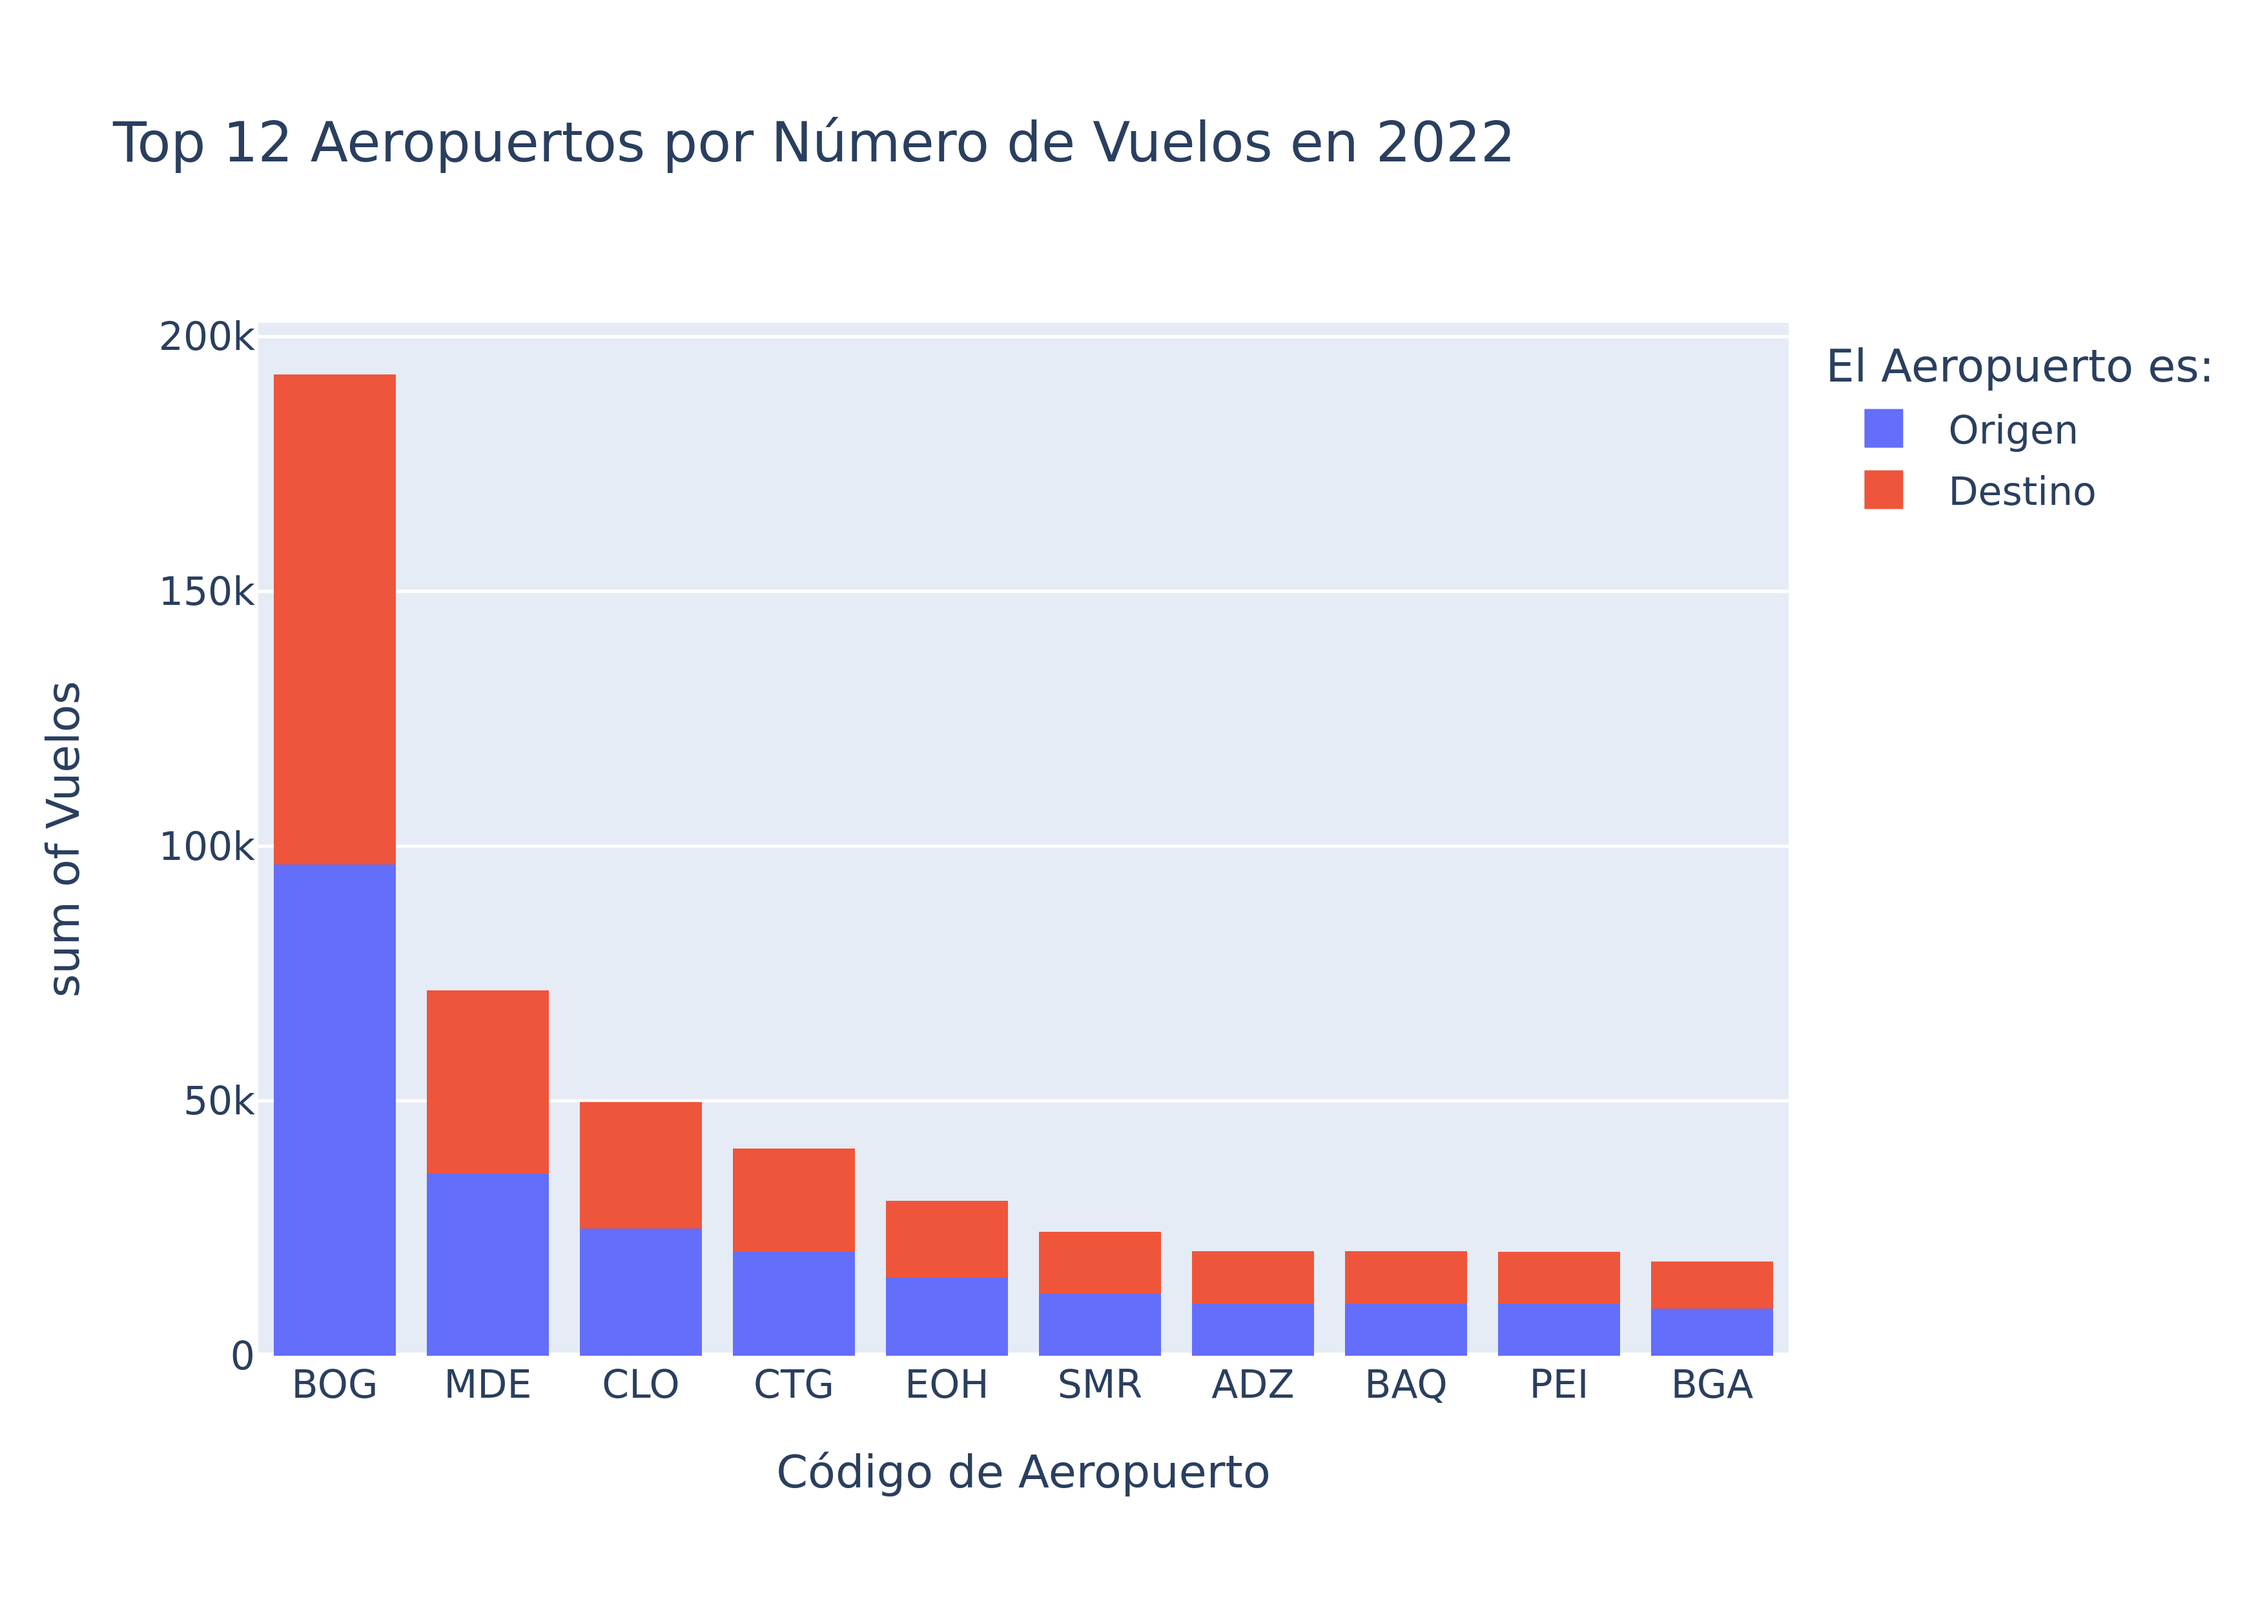
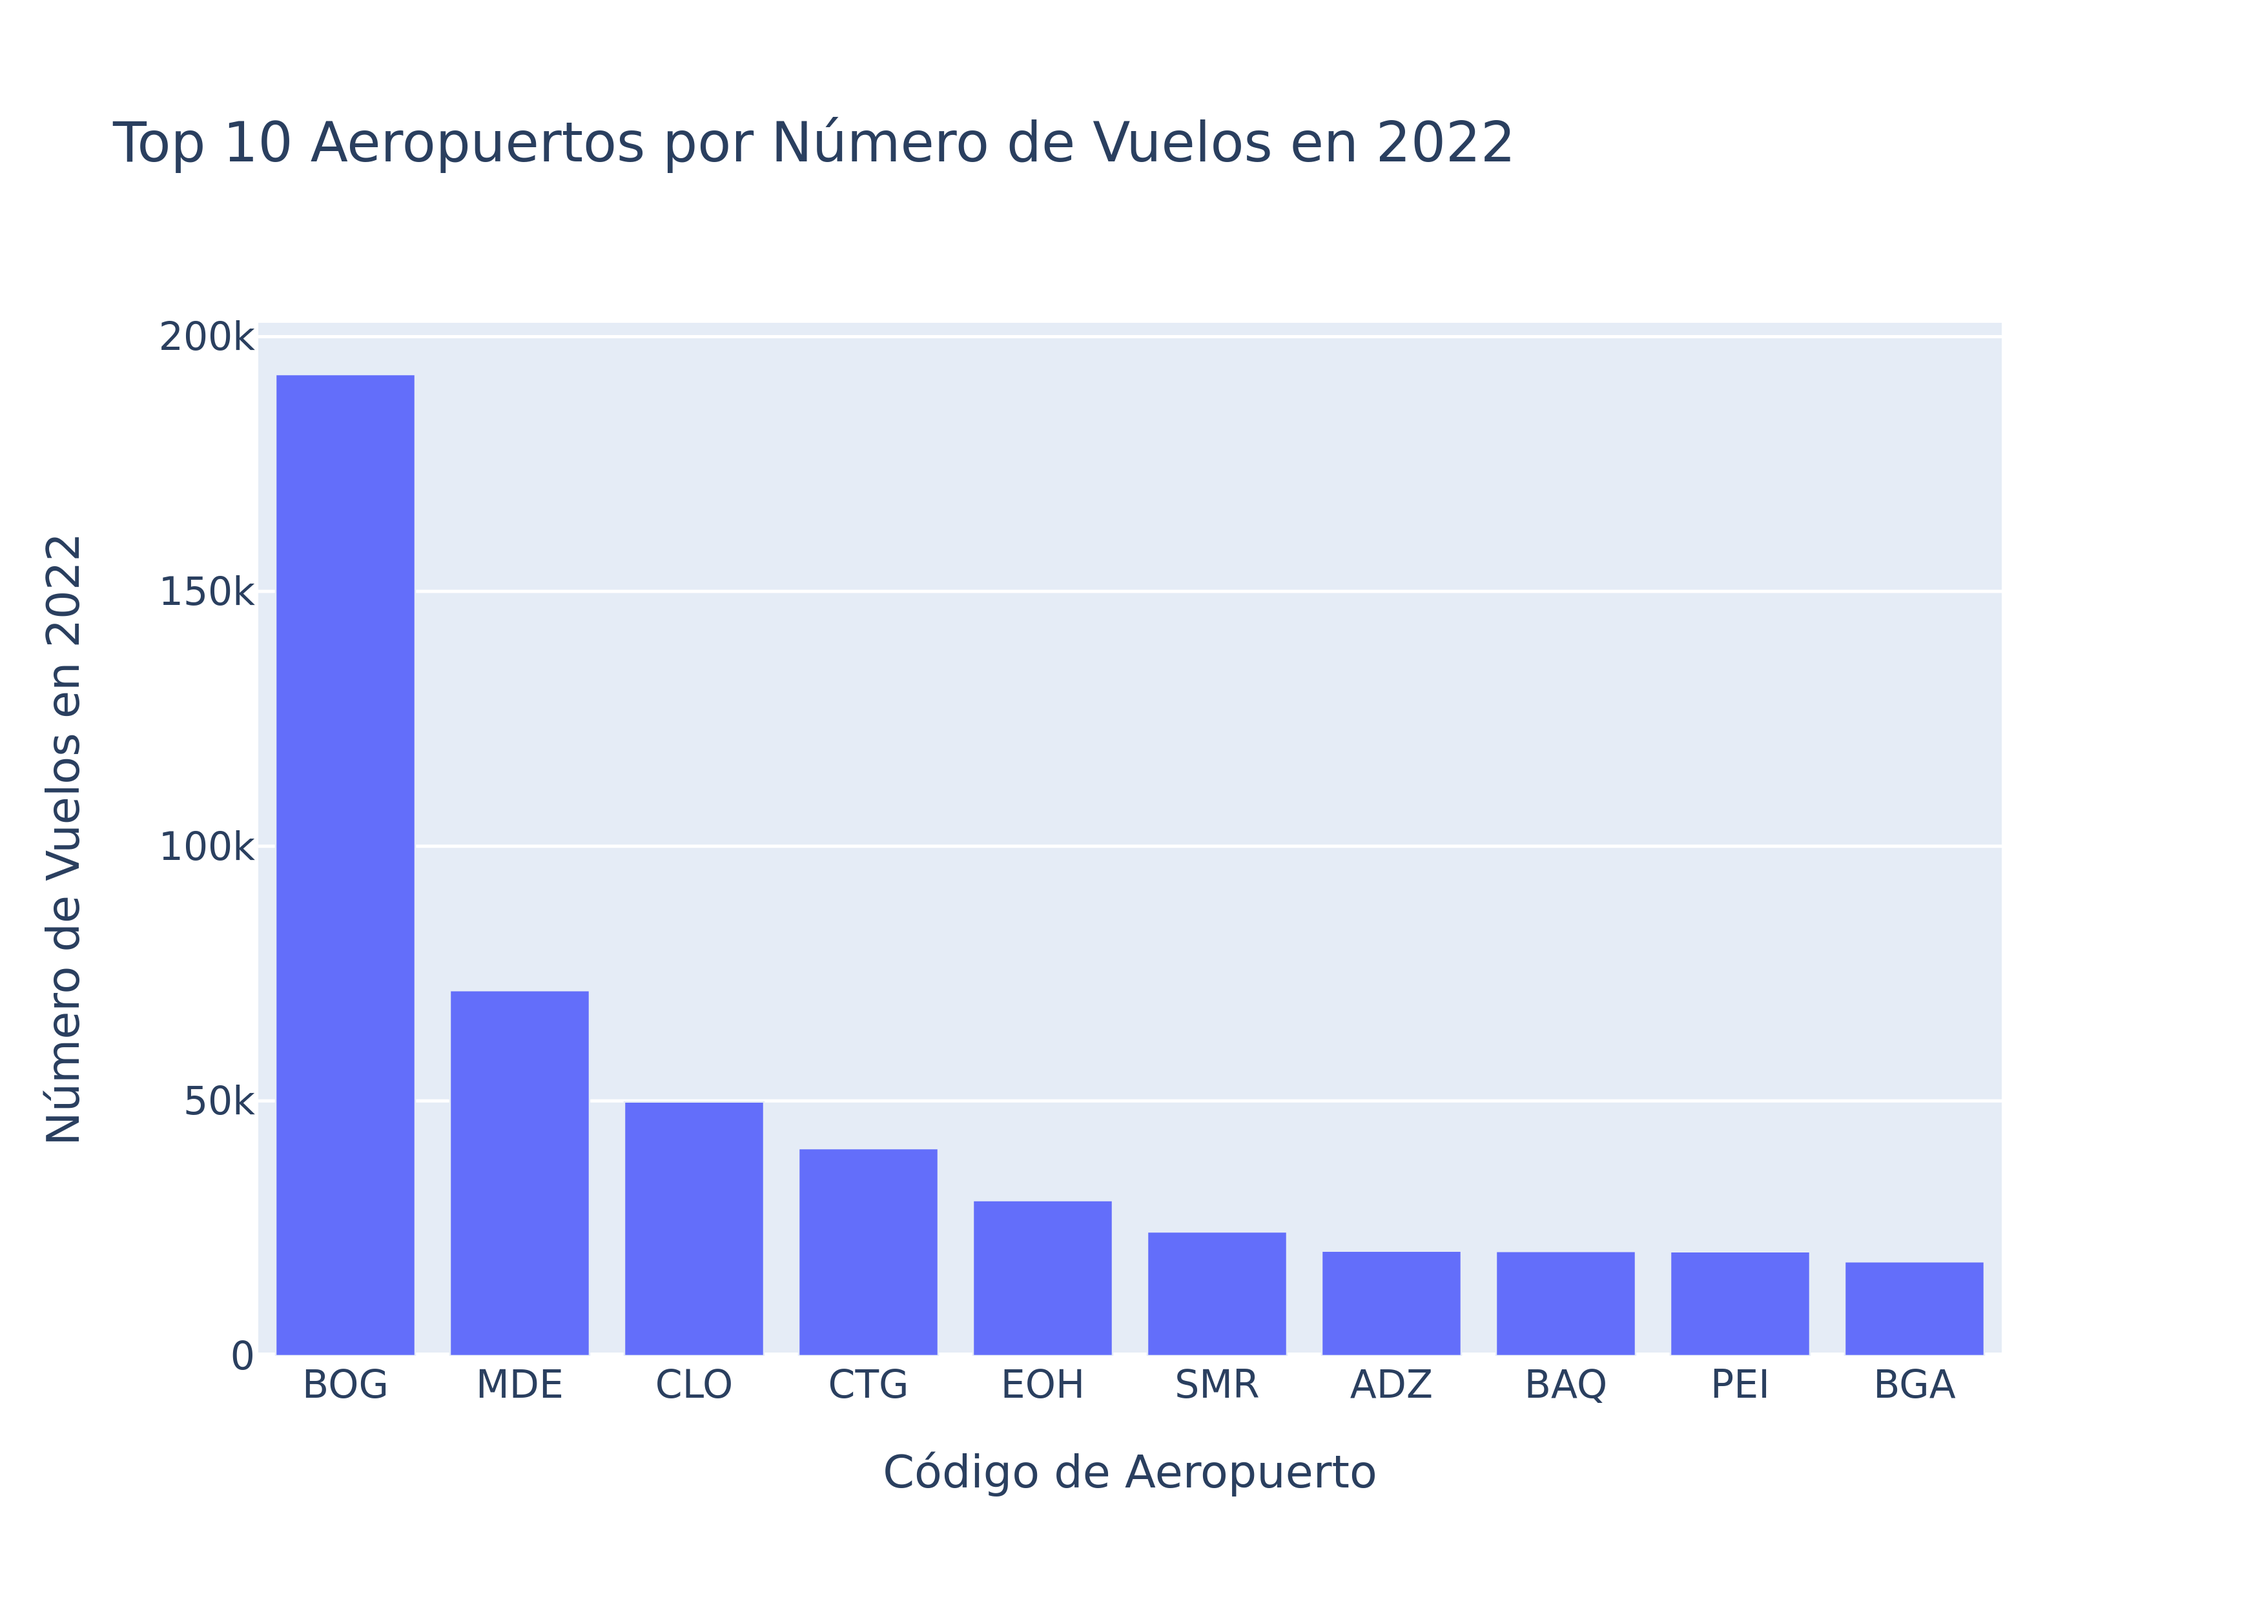
add new plot

diff --git a/analyze-and-plot.py b/analyze-and-plot.py
@@ -84,6 +84,7 @@ top_airports = (
         total_flights=lambda x: x['number_of_flights_outgoing'] + x['number_of_flights_incoming'],
         total_seats=lambda x: x['seats_offered_outgoing'] + x['seats_offered_incoming'],
         passengers_per_flight=lambda x: x['total_passengers'] / x['total_flights'],
+        seats_per_flight=lambda x: x['total_seats'] / x['total_flights'],
         occupancy_rate=lambda x: x['total_passengers'] / x['total_seats'],
     )
     .nlargest(10, 'total_flights')
@@ -101,27 +102,37 @@ top_airports_to_plot = top_airports.rename(
         'number_of_flights_incoming': 'Destino',
         'total_flights': 'Número de Vuelos en 2022',
         'passengers_per_flight': 'Pasajeros por Vuelo',
-        'total_seats': 'Sillas',
+        'total_seats': 'Sillas Ofrecidas',
         'occupancy_rate': 'Tasa de Ocupación',
+        'seats_per_flight': 'Sillas Ofrecidas por Vuelo',
     },
     axis=1,
 )
 
-fig_bars = px.histogram(
+fig_bars = px.bar(
     top_airports_to_plot,
     x='Código de Aeropuerto',
-    y=['Origen', 'Destino'],
-    barmode='stack',
-    title='Top 12 Aeropuertos por Número de Vuelos en 2022',
+    y='Número de Vuelos en 2022',
+    title='Top 10 Aeropuertos por Número de Vuelos en 2022',
     labels={
-        'airport_code': 'Código de Aeropuerto',
         'value': 'Vuelos',
-        'variable': 'El Aeropuerto es:',
     },
 )
 
+fig_bars2 = px.bar(
+    top_airports_to_plot,
+    x='Código de Aeropuerto',
+    y='Sillas Ofrecidas por Vuelo',
+    title='Sillas Ofrecidas por Vuelo en 2022',
+)
+
+
 fig_bars.show()
+fig_bars2.show()
+
 fig_bars.write_image('media/top_airports.png', scale=5)
+fig_bars2.write_image('media/seats_per_flight.png', scale=5)
+
 
 fig_scatter = px.scatter(
     top_airports_to_plot,
